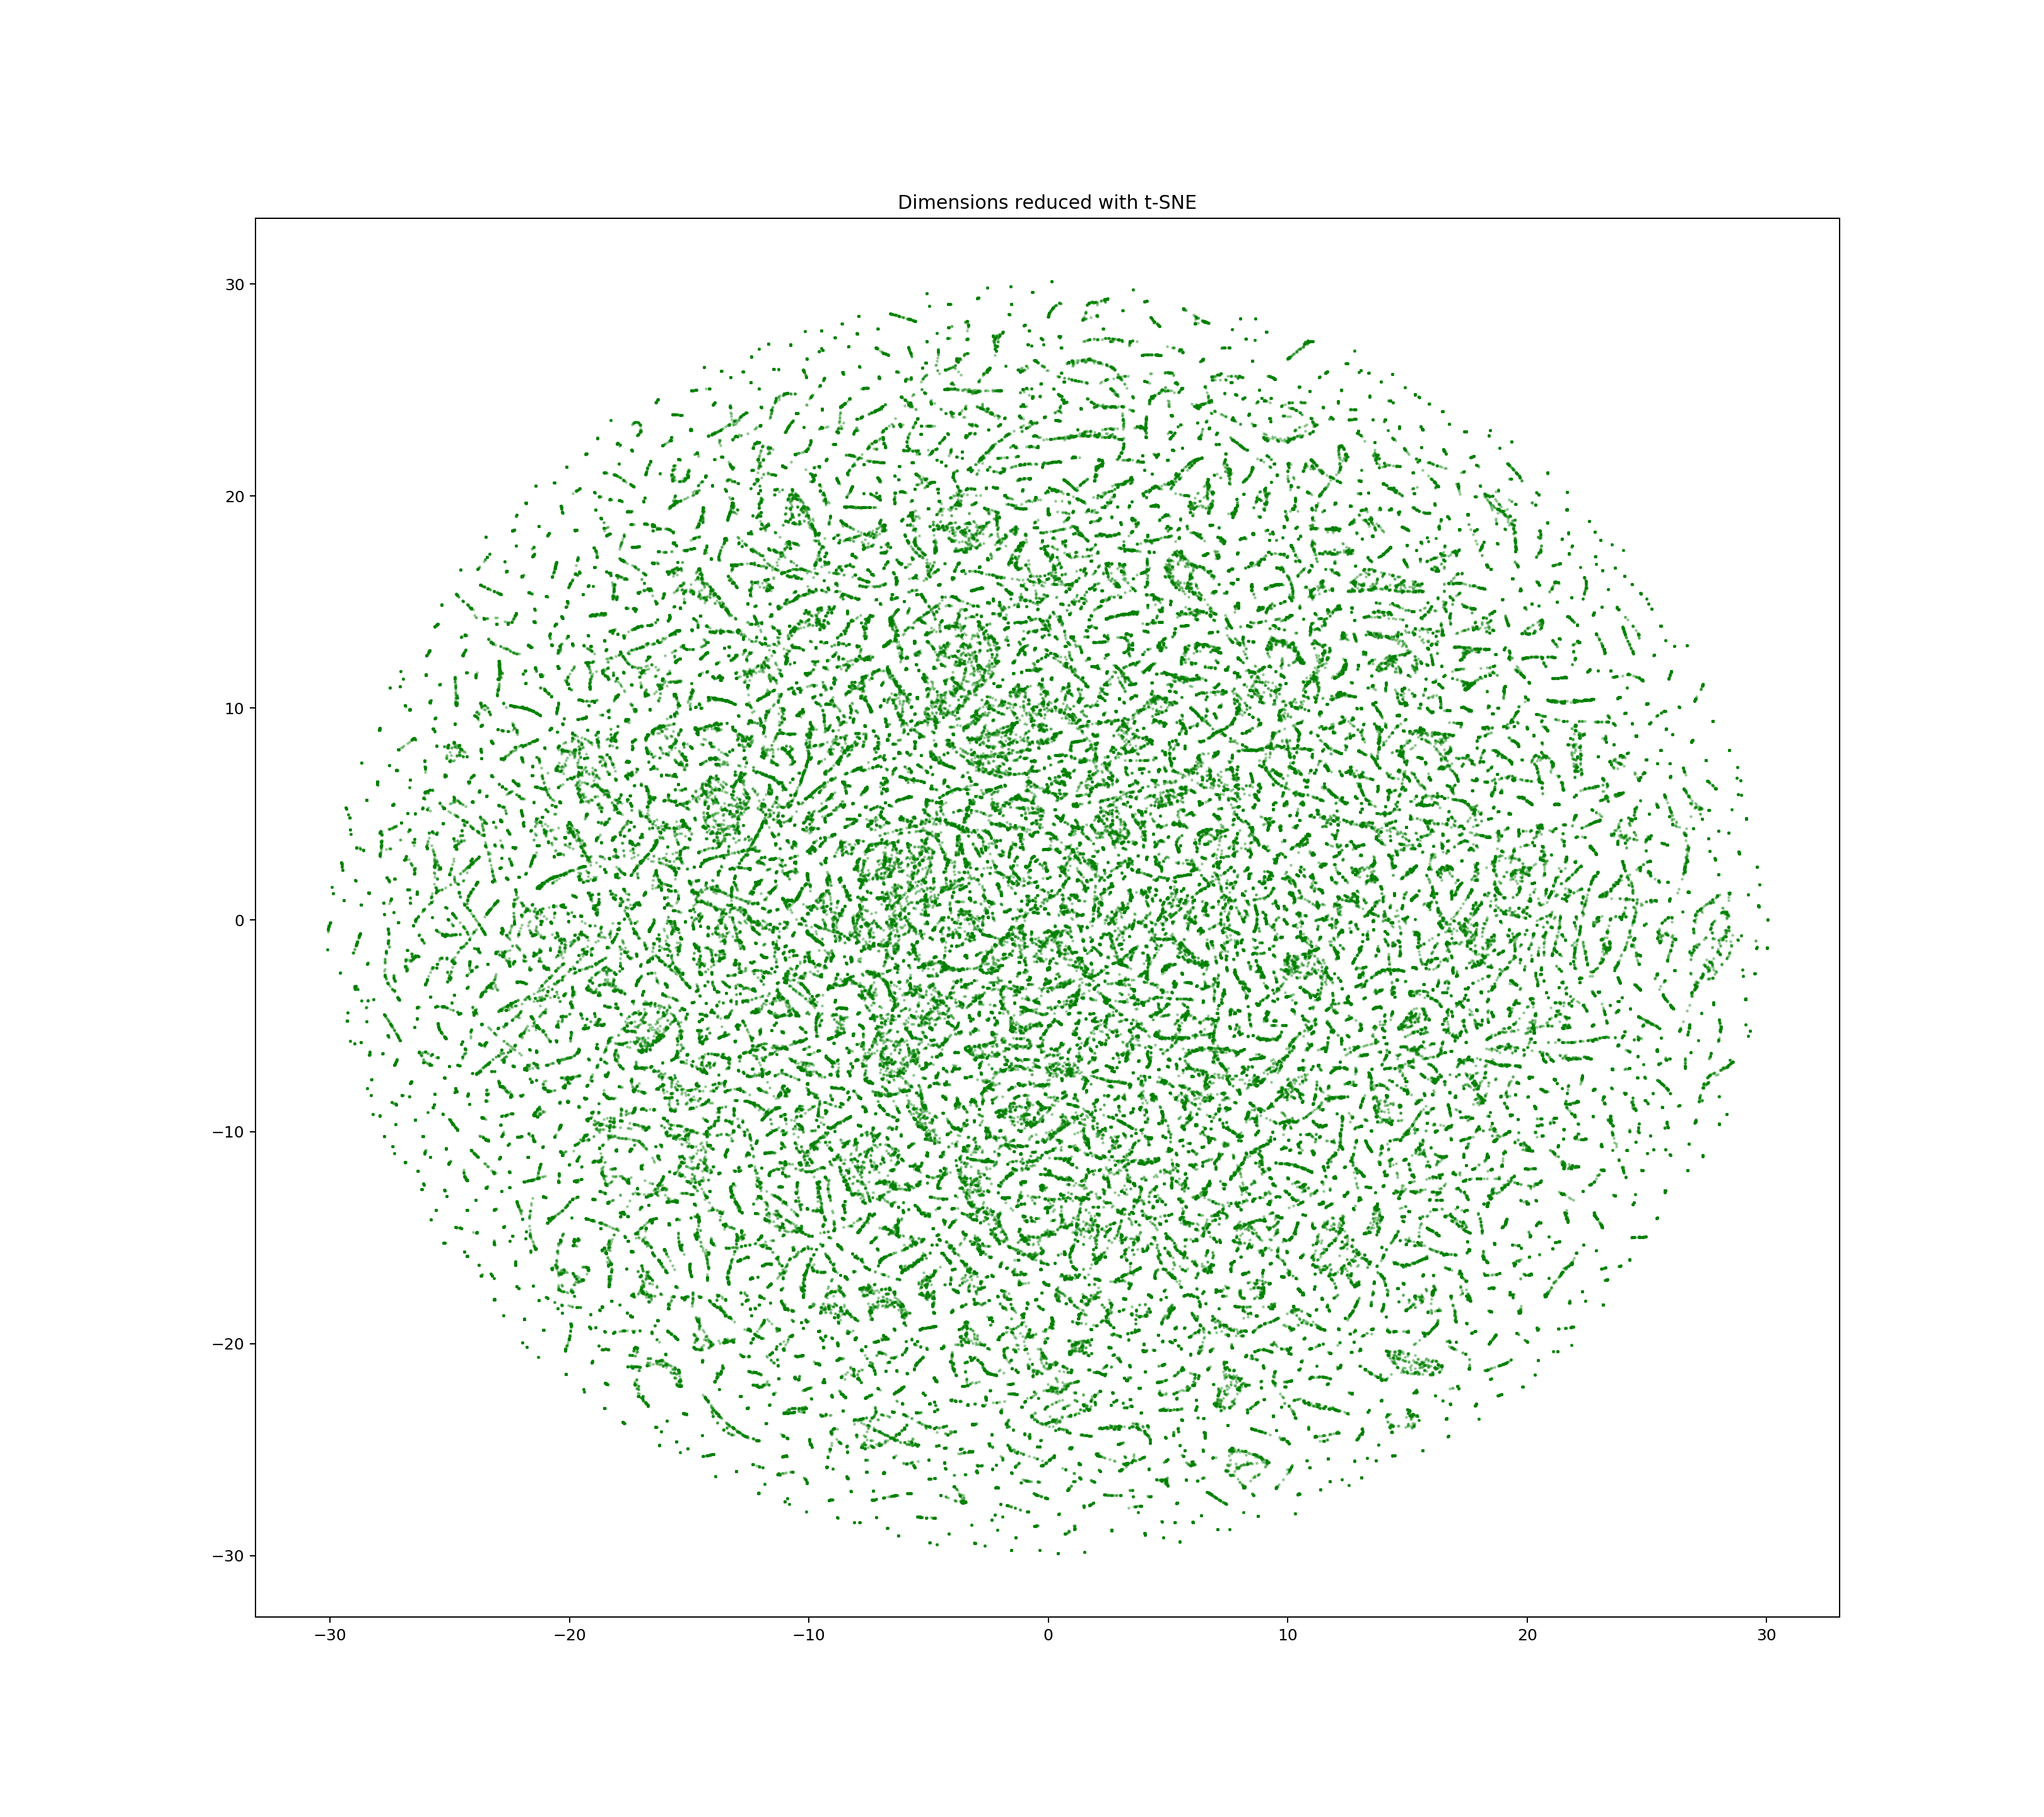
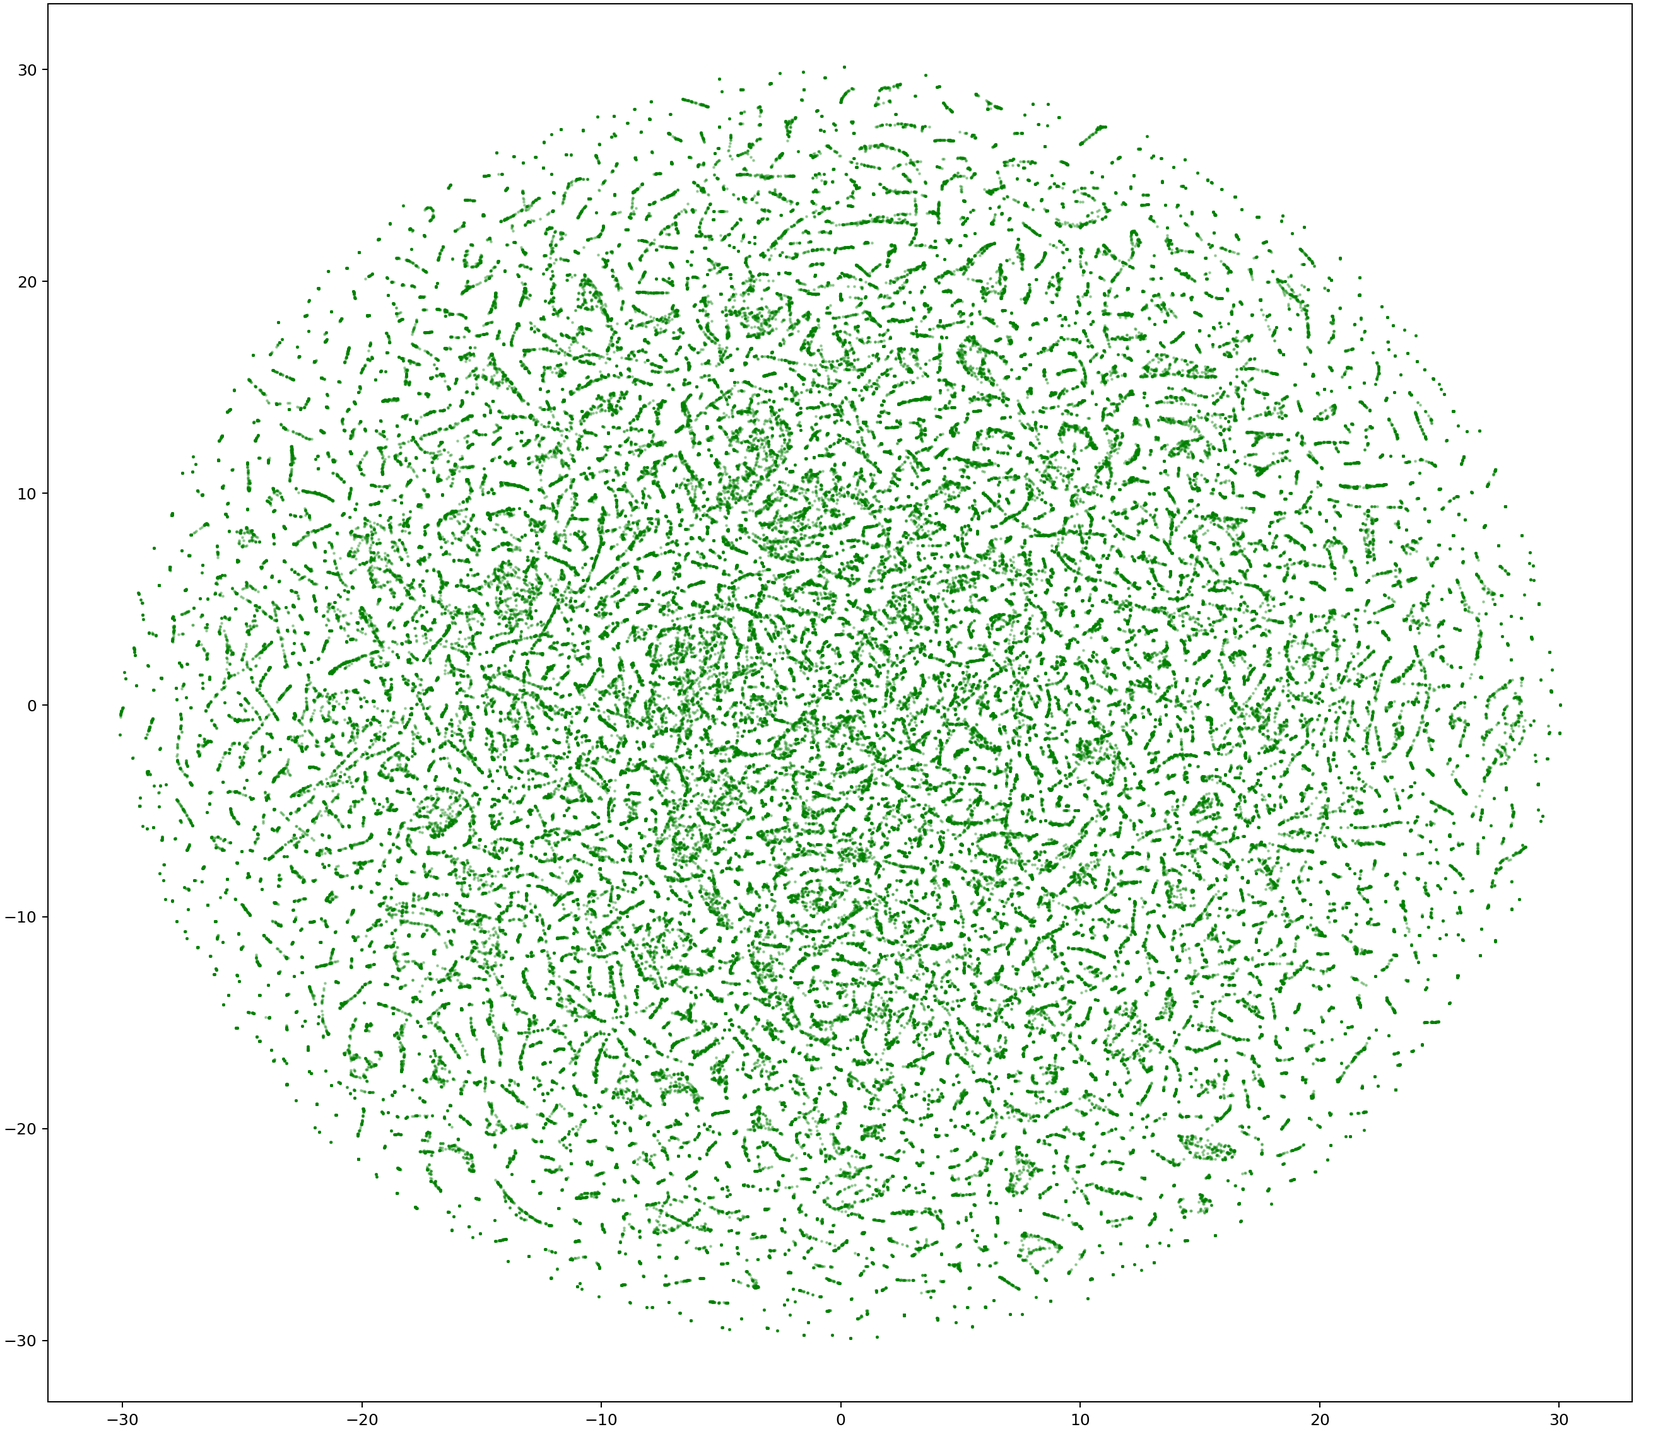
added machine learning div

Changed region(s): [[0.0936, 0.0617, 0.9361, 0.8948]]

diff --git a/index.html b/index.html
@@ -106,9 +106,25 @@
 
 <br>
 <br>
+<hr>
+<div align="center" class="ML">
+<img width="80" style="margin-top: 20px;" src="figures/ml_icon.png">
+<h2 style="position: relative;top: -10px;color: white;font-size: 30px;font-weight: 200;font-style: normal;">Machine Learning analysis</h2>
+<table style="border-spacing:50px; margin-top: -40px;" border="0">
+<tr>
+	<td align="center"><h3 style="position: relative;top: 0px;color: white;font-size: 20px;font-weight: 200;font-style: normal; ">Output of t-SNE reduction</h3></td>
+	<td align="center"><h3 style="position: relative;top: 0px;color: white;font-size: 20px;font-weight: 200;font-style: normal; ">k-Means clustered t-SNE output</h3></td>
+
+</tr>
+<tr>
+	<td align="center"><div class="ml1"><img style="margin-top: 40px; width: 90%;" src="figures/tsne_train.png"></div></td>
+	<td align="center"><div class="ml2"><img style="margin-top: 40px; width:92%;" src="figures/kmeans_tsne_train.png"></div></td>
+</tr>	
+	
+	
+	
 </div>
-
-
+</div>
 
 
 </body>

diff --git a/style.css b/style.css
@@ -63,6 +63,24 @@ body {
 	height: 300px;
 }
 
+.ml1 {
+    border-radius: 25px;
+	width: 700px;
+	height: 613px;
+	margin-top: -60px;
+	background-color: white;
+	
+}
+
+.ml2 {
+    border-radius: 25px;
+	width: 700px;
+	height: 613px;
+	background-color: white;
+	margin-top: -60px;
+}
+
+
 .differences_state h2{
 	position: relative;
 	top: 10px;
@@ -91,10 +109,15 @@ body {
     width    : 1000px;
     height   : 1200px;
 }
-
+.ML {
+	background-color: #333333;
+	height: 1000px;
+	position: relative;
+	top: -38px;
+}
 
 .bar{
-    position:absolute;
+    position: absolute;
     top:0;
     left:0;
     width:100%;
